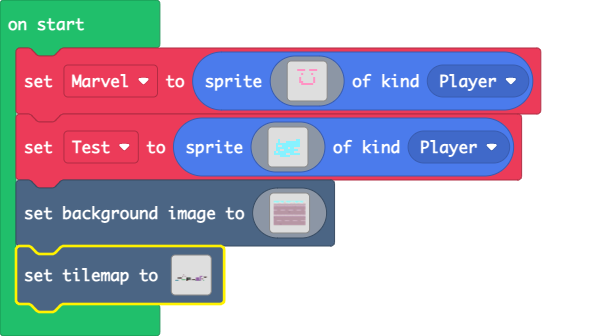
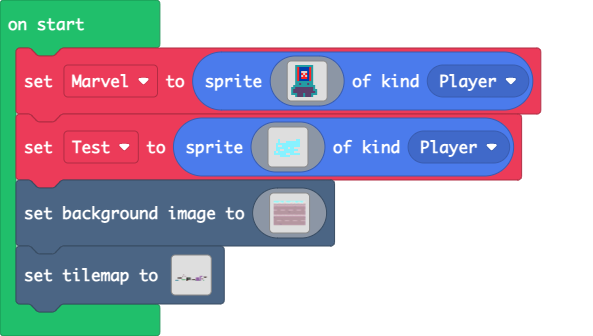
Update main.blocks, main.ts, tilemap.g.jres, tilemap.g.ts

diff --git a/tilemap.g.ts b/tilemap.g.ts
@@ -24,6 +24,158 @@ namespace myTiles {
 .................2.........22...222.2222
 .....................2222..22...222.2222
 `, [myTiles.transparency16,sprites.builtin.forestTiles17,sprites.builtin.forestTiles18,sprites.builtin.forestTiles19,sprites.builtin.forestTiles8,sprites.builtin.forestTiles5,sprites.builtin.forestTiles6,sprites.builtin.forestTiles9,sprites.builtin.forestTiles13,sprites.builtin.forestTiles7,sprites.builtin.forestTiles11,sprites.builtin.forestTiles10,sprites.dungeon.chestClosed,sprites.builtin.forestTiles14,sprites.dungeon.purpleOuterNorth0,sprites.dungeon.purpleOuterNorth1,sprites.dungeon.purpleOuterNorthEast,sprites.dungeon.purpleOuterEast0,sprites.dungeon.purpleOuterNorthWest,sprites.dungeon.purpleOuterWest0,sprites.dungeon.purpleOuterSouthEast,sprites.dungeon.purpleInnerNorthEast,sprites.dungeon.purpleInnerNorthWest,sprites.dungeon.purpleInnerSouthEast,sprites.dungeon.purpleInnerSouthWest,sprites.dungeon.purpleOuterSouth0,sprites.dungeon.purpleOuterSouthWest,sprites.builtin.forestTiles24,sprites.builtin.forestTiles29,sprites.swamp.swampTile0,sprites.swamp.swampTile1,sprites.swamp.swampTile2,sprites.builtin.forestTiles1,sprites.builtin.forestTiles2,sprites.builtin.forestTiles4,sprites.builtin.forestTiles3], TileScale.Sixteen);
+            case "level2":
+            case "level2":return tiles.createTilemap(hex`1000100000000000000000000000000000000000000000000000000000000000000000000000000000000000000000000000000000000000000000000000000000000000000000000000000000000000000000000000000000000000000000000000000000000000000000000000000000000000000000000000000000000000000000000000000000000000000000000000000000000000000000000000000000000000000000000000000000000000000000000000000000000000000000000000000000000000000000000000000000000000000000000000000000000000000000000000000000000000000000000000000000000000000000000000000000000000`, img`
+. . . . . . . . . . . . . . . . 
+. . . . . . . . . . . . . . . . 
+. . . . . . . . . . . . . . . . 
+. . . . . . . . . . . . . . . . 
+. . . . . . . . . . . . . . . . 
+. . . . . . . . . . . . . . . . 
+. . . . . . . . . . . . . . . . 
+. . . . . . . . . . . . . . . . 
+. . . . . . . . . . . . . . . . 
+. . . . . . . . . . . . . . . . 
+. . . . . . . . . . . . . . . . 
+. . . . . . . . . . . . . . . . 
+. . . . . . . . . . . . . . . . 
+. . . . . . . . . . . . . . . . 
+. . . . . . . . . . . . . . . . 
+. . . . . . . . . . . . . . . . 
+`, [myTiles.transparency16], TileScale.Sixteen);
+            case "level3":
+            case "level3":return tiles.createTilemap(hex`1000100000000000000000000000000000000000000000000000000000000000000000000000000000000000000000000000000000000000000000000000000000000000000000000000000000000000000000000000000000000000000000000000000000000000000000000000000000000000000000000000000000000000000000000000000000000000000000000000000000000000000000000000000000000000000000000000000000000000000000000000000000000000000000000000000000000000000000000000000000000000000000000000000000000000000000000000000000000000000000000000000000000000000000000000000000000000`, img`
+. . . . . . . . . . . . . . . . 
+. . . . . . . . . . . . . . . . 
+. . . . . . . . . . . . . . . . 
+. . . . . . . . . . . . . . . . 
+. . . . . . . . . . . . . . . . 
+. . . . . . . . . . . . . . . . 
+. . . . . . . . . . . . . . . . 
+. . . . . . . . . . . . . . . . 
+. . . . . . . . . . . . . . . . 
+. . . . . . . . . . . . . . . . 
+. . . . . . . . . . . . . . . . 
+. . . . . . . . . . . . . . . . 
+. . . . . . . . . . . . . . . . 
+. . . . . . . . . . . . . . . . 
+. . . . . . . . . . . . . . . . 
+. . . . . . . . . . . . . . . . 
+`, [myTiles.transparency16], TileScale.Sixteen);
+            case "level4":
+            case "level4":return tiles.createTilemap(hex`1000100000000000000000000000000000000000000000000000000000000000000000000000000000000000000000000000000000000000000000000000000000000000000000000000000000000000000000000000000000000000000000000000000000000000000000000000000000000000000000000000000000000000000000000000000000000000000000000000000000000000000000000000000000000000000000000000000000000000000000000000000000000000000000000000000000000000000000000000000000000000000000000000000000000000000000000000000000000000000000000000000000000000000000000000000000000000`, img`
+. . . . . . . . . . . . . . . . 
+. . . . . . . . . . . . . . . . 
+. . . . . . . . . . . . . . . . 
+. . . . . . . . . . . . . . . . 
+. . . . . . . . . . . . . . . . 
+. . . . . . . . . . . . . . . . 
+. . . . . . . . . . . . . . . . 
+. . . . . . . . . . . . . . . . 
+. . . . . . . . . . . . . . . . 
+. . . . . . . . . . . . . . . . 
+. . . . . . . . . . . . . . . . 
+. . . . . . . . . . . . . . . . 
+. . . . . . . . . . . . . . . . 
+. . . . . . . . . . . . . . . . 
+. . . . . . . . . . . . . . . . 
+. . . . . . . . . . . . . . . . 
+`, [myTiles.transparency16], TileScale.Sixteen);
+            case "level5":
+            case "level5":return tiles.createTilemap(hex`1000100000000000000000000000000000000000000000000000000000000000000000000000000000000000000000000000000000000000000000000000000000000000000000000000000000000000000000000000000000000000000000000000000000000000000000000000000000000000000000000000000000000000000000000000000000000000000000000000000000000000000000000000000000000000000000000000000000000000000000000000000000000000000000000000000000000000000000000000000000000000000000000000000000000000000000000000000000000000000000000000000000000000000000000000000000000000`, img`
+. . . . . . . . . . . . . . . . 
+. . . . . . . . . . . . . . . . 
+. . . . . . . . . . . . . . . . 
+. . . . . . . . . . . . . . . . 
+. . . . . . . . . . . . . . . . 
+. . . . . . . . . . . . . . . . 
+. . . . . . . . . . . . . . . . 
+. . . . . . . . . . . . . . . . 
+. . . . . . . . . . . . . . . . 
+. . . . . . . . . . . . . . . . 
+. . . . . . . . . . . . . . . . 
+. . . . . . . . . . . . . . . . 
+. . . . . . . . . . . . . . . . 
+. . . . . . . . . . . . . . . . 
+. . . . . . . . . . . . . . . . 
+. . . . . . . . . . . . . . . . 
+`, [myTiles.transparency16], TileScale.Sixteen);
+            case "level6":
+            case "level6":return tiles.createTilemap(hex`1000100000000000000000000000000000000000000000000000000000000000000000000000000000000000000000000000000000000000000000000000000000000000000000000000000000000000000000000000000000000000000000000000000000000000000000000000000000000000000000000000000000000000000000000000000000000000000000000000000000000000000000000000000000000000000000000000000000000000000000000000000000000000000000000000000000000000000000000000000000000000000000000000000000000000000000000000000000000000000000000000000000000000000000000000000000000000`, img`
+. . . . . . . . . . . . . . . . 
+. . . . . . . . . . . . . . . . 
+. . . . . . . . . . . . . . . . 
+. . . . . . . . . . . . . . . . 
+. . . . . . . . . . . . . . . . 
+. . . . . . . . . . . . . . . . 
+. . . . . . . . . . . . . . . . 
+. . . . . . . . . . . . . . . . 
+. . . . . . . . . . . . . . . . 
+. . . . . . . . . . . . . . . . 
+. . . . . . . . . . . . . . . . 
+. . . . . . . . . . . . . . . . 
+. . . . . . . . . . . . . . . . 
+. . . . . . . . . . . . . . . . 
+. . . . . . . . . . . . . . . . 
+. . . . . . . . . . . . . . . . 
+`, [myTiles.transparency16], TileScale.Sixteen);
+            case "level7":
+            case "level7":return tiles.createTilemap(hex`1000100000000000000000000000000000000000000000000000000000000000000000000000000000000000000000000000000000000000000000000000000000000000000000000000000000000000000000000000000000000000000000000000000000000000000000000000000000000000000000000000000000000000000000000000000000000000000000000000000000000000000000000000000000000000000000000000000000000000000000000000000000000000000000000000000000000000000000000000000000000000000000000000000000000000000000000000000000000000000000000000000000000000000000000000000000000000`, img`
+. . . . . . . . . . . . . . . . 
+. . . . . . . . . . . . . . . . 
+. . . . . . . . . . . . . . . . 
+. . . . . . . . . . . . . . . . 
+. . . . . . . . . . . . . . . . 
+. . . . . . . . . . . . . . . . 
+. . . . . . . . . . . . . . . . 
+. . . . . . . . . . . . . . . . 
+. . . . . . . . . . . . . . . . 
+. . . . . . . . . . . . . . . . 
+. . . . . . . . . . . . . . . . 
+. . . . . . . . . . . . . . . . 
+. . . . . . . . . . . . . . . . 
+. . . . . . . . . . . . . . . . 
+. . . . . . . . . . . . . . . . 
+. . . . . . . . . . . . . . . . 
+`, [myTiles.transparency16], TileScale.Sixteen);
+            case "level8":
+            case "level8":return tiles.createTilemap(hex`1000100000000000000000000000000000000000000000000000000000000000000000000000000000000000000000000000000000000000000000000000000000000000000000000000000000000000000000000000000000000000000000000000000000000000000000000000000000000000000000000000000000000000000000000000000000000000000000000000000000000000000000000000000000000000000000000000000000000000000000000000000000000000000000000000000000000000000000000000000000000000000000000000000000000000000000000000000000000000000000000000000000000000000000000000000000000000`, img`
+. . . . . . . . . . . . . . . . 
+. . . . . . . . . . . . . . . . 
+. . . . . . . . . . . . . . . . 
+. . . . . . . . . . . . . . . . 
+. . . . . . . . . . . . . . . . 
+. . . . . . . . . . . . . . . . 
+. . . . . . . . . . . . . . . . 
+. . . . . . . . . . . . . . . . 
+. . . . . . . . . . . . . . . . 
+. . . . . . . . . . . . . . . . 
+. . . . . . . . . . . . . . . . 
+. . . . . . . . . . . . . . . . 
+. . . . . . . . . . . . . . . . 
+. . . . . . . . . . . . . . . . 
+. . . . . . . . . . . . . . . . 
+. . . . . . . . . . . . . . . . 
+`, [myTiles.transparency16], TileScale.Sixteen);
+            case "level9":
+            case "level9":return tiles.createTilemap(hex`1000100000000000000000000000000000000000000000000000000000000000000000000000000000000000000000000000000000000000000000000000000000000000000000000000000000000000000000000000000000000000000000000000000000000000000000000000000000000000000000000000000000000000000000000000000000000000000000000000000000000000000000000000000000000000000000000000000000000000000000000000000000000000000000000000000000000000000000000000000000000000000000000000000000000000000000000000000000000000000000000000000000000000000000000000000000000000`, img`
+. . . . . . . . . . . . . . . . 
+. . . . . . . . . . . . . . . . 
+. . . . . . . . . . . . . . . . 
+. . . . . . . . . . . . . . . . 
+. . . . . . . . . . . . . . . . 
+. . . . . . . . . . . . . . . . 
+. . . . . . . . . . . . . . . . 
+. . . . . . . . . . . . . . . . 
+. . . . . . . . . . . . . . . . 
+. . . . . . . . . . . . . . . . 
+. . . . . . . . . . . . . . . . 
+. . . . . . . . . . . . . . . . 
+. . . . . . . . . . . . . . . . 
+. . . . . . . . . . . . . . . . 
+. . . . . . . . . . . . . . . . 
+. . . . . . . . . . . . . . . . 
+`, [myTiles.transparency16], TileScale.Sixteen);
         }
         return null;
     })

diff --git a/main.ts b/main.ts
@@ -1,20 +1,20 @@
 let Marvel = sprites.create(img`
-    . . . . . . . . . . . . . . . . 
-    . . . . . . . . . . . . . . . . 
-    . . . 3 3 3 3 . . 3 3 3 3 . . . 
-    . . . . . . . . . . . . . . . . 
-    . . . . . 3 . . . . 3 . . . . . 
-    . . . . . . . . . . . . . . . . 
-    . . . . 3 . . . . . . 3 . . . . 
-    . . . . 3 . . . . . . 3 . . . . 
-    . . . . 3 3 . . . . . 3 . . . . 
-    . . . . . 3 3 3 3 3 3 . . . . . 
-    . . . . . . . . . . . . . . . . 
-    . . . . . . . . . . . . . . . . 
-    . . . . . . . . . . . . . . . . 
-    . . . . . . . . . . . . . . . . 
-    . . . . . . . . . . . . . . . . 
-    . . . . . . . . . . . . . . . . 
+    . . 6 6 6 6 6 6 6 6 6 . . . . . 
+    . . 6 2 8 8 8 8 8 2 6 . . . . . 
+    . . 6 2 8 8 8 8 8 2 6 . . . . . 
+    . . 6 2 8 d d d 8 2 6 . . . . . 
+    . . 6 2 8 2 d 2 8 2 6 . . . . . 
+    . . 6 2 8 d 2 d 8 2 6 . . . . . 
+    . . 6 2 8 2 2 2 8 2 6 . . . . . 
+    . . 6 2 8 8 8 8 8 2 6 . . . . . 
+    . . 6 6 6 6 6 6 6 6 6 . . . . . 
+    . . 6 6 c 6 6 6 c 6 6 . . . . . 
+    . 6 6 6 6 6 6 6 6 6 6 6 . . . . 
+    6 6 c c c c c c c c c 6 . . . . 
+    6 c c c c c c c c c c 6 6 . . . 
+    6 c c c c c c c c c c c 6 . . . 
+    6 6 6 c c c 6 c c c 6 6 6 . . . 
+    . . 6 c c c 6 c c c 6 . . . . . 
     `, SpriteKind.Player)
 let Test = sprites.create(img`
     . . . . . . . . . . . . . . . . 
